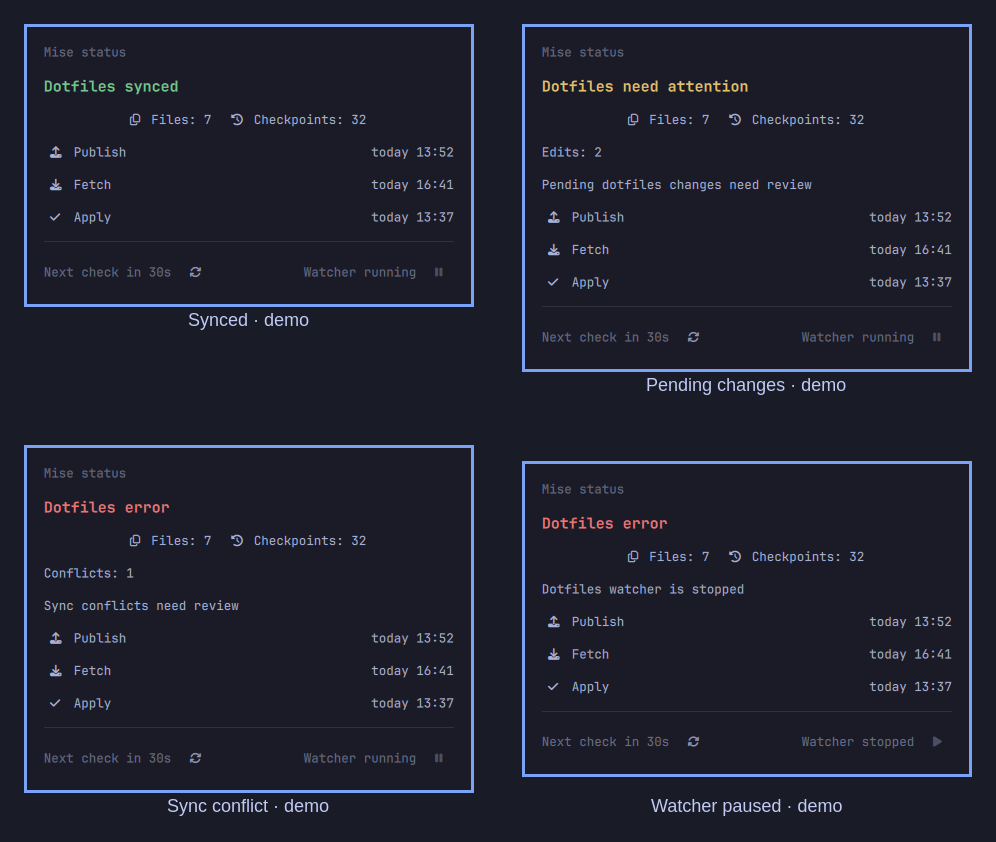
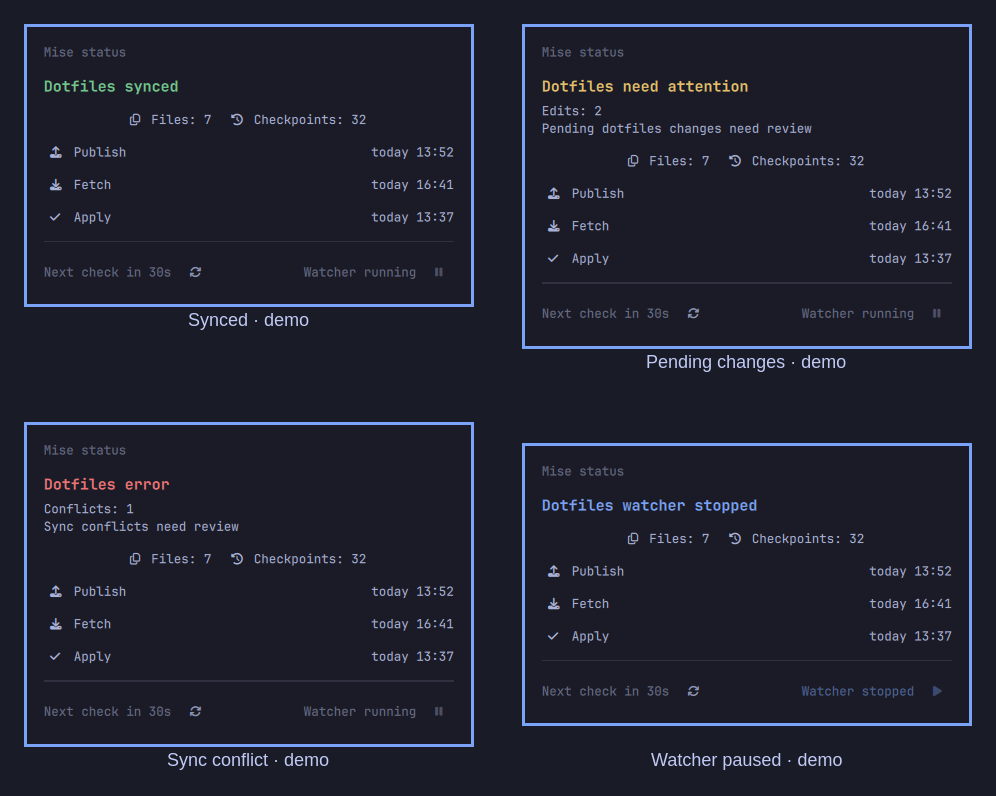
feat: show paused watcher in blue and group status reasons

diff --git a/ui/StatusContent.qml b/ui/StatusContent.qml
@@ -38,12 +38,12 @@ Column {
     font.family: root.fontFamily
     font.pixelSize: root.captionSize
   }
-  RowLayout {
+  Column {
     width: parent.width
-    spacing: 12 * root.unit
+    spacing: 5 * root.unit
     Text {
       objectName: "statusHeading"
-      Layout.fillWidth: true
+      width: parent.width
       text: root.status.summary
       textFormat: Text.PlainText
       elide: Text.ElideRight
@@ -51,6 +51,31 @@ Column {
       font.family: root.fontFamily
       font.pixelSize: root.bodySize
       font.bold: true
+    }
+    Text {
+      objectName: "statusReason"
+      width: parent.width
+      text: (root.status.details || []).filter(function(line) {
+        return line.indexOf("Watcher: ") !== 0
+          && !/^Files: (\d+|unknown) \| Checkpoints: (\d+|unknown)$/.test(line)
+          && !/^Last (publish|fetch|apply): /.test(line)
+      }).join("\n")
+      visible: text !== ""
+      textFormat: Text.PlainText
+      wrapMode: Text.Wrap
+      color: root.foreground
+      font.family: root.fontFamily
+      font.pixelSize: root.captionSize
+    }
+    Text {
+      visible: root.watcherError !== ""
+      width: parent.width
+      text: root.watcherError
+      textFormat: Text.PlainText
+      wrapMode: Text.Wrap
+      color: Presentation.colorFor("red")
+      font.family: root.fontFamily
+      font.pixelSize: root.captionSize
     }
   }
     Row {
@@ -96,7 +121,7 @@ Column {
       objectName: "watcherLabel"
       anchors.verticalCenter: parent.verticalCenter
       text: "Watcher " + root.watcherState
-      color: root.foreground
+      color: root.watcherState === "stopped" ? Presentation.colorFor("blue") : root.foreground
       opacity: 0.55
       font.family: root.fontFamily
       font.pixelSize: root.captionSize
@@ -123,7 +148,7 @@ Column {
         text: watcherButton.text
         horizontalAlignment: Text.AlignHCenter
         verticalAlignment: Text.AlignVCenter
-        color: root.foreground
+        color: root.watcherState === "stopped" ? Presentation.colorFor("blue") : root.foreground
         opacity: watcherButton.enabled ? 0.8 : 0.35
         font.family: root.fontFamily
         font.pixelSize: root.captionSize
@@ -131,18 +156,8 @@ Column {
       onClicked: root.watcherToggleRequested()
     }
   }
-  Text {
-    visible: root.watcherError !== ""
-    width: parent.width
-    text: root.watcherError
-    textFormat: Text.PlainText
-    wrapMode: Text.Wrap
-    color: Presentation.colorFor("red")
-    font.family: root.fontFamily
-    font.pixelSize: root.captionSize
-  }
   Repeater {
-    model: (root.status.details || []).filter(function(line) { return line.indexOf("Watcher: ") !== 0 && !/^Files: (\d+|unknown) \| Checkpoints: (\d+|unknown)$/.test(line) })
+    model: (root.status.details || []).filter(function(line) { return /^Last (publish|fetch|apply): /.test(line) })
     delegate: Item {
       id: detail
       required property string modelData

diff --git a/tests/tst_content.qml b/tests/tst_content.qml
@@ -119,4 +119,22 @@ TestCase {
     content.status = {summary: "Dotfiles error", level: "red", details: []}
     compare(findChild(content, "statusHeading").color, "#ee7373")
   }
+  function test_reasons_before_counts() {
+    var original = content.status
+    content.status = {summary: "Dotfiles error", level: "red", details: ["Files: 7 | Checkpoints: 28", "Last publish: today 13:52", "Sync conflicts need review"]}
+    waitForRendering(content)
+    var reason = findChild(content, "statusReason")
+    verify(reason !== null)
+    var counts = findChild(content, "filesIcon").parent
+    verify(reason.mapToItem(content, 0, reason.height).y < counts.y)
+    verify(reason.mapToItem(content, 0, 0).y > findChild(content, "statusHeading").mapToItem(content, 0, 0).y)
+    content.status = original
+  }
+  function test_stopped_color() {
+    content.watcherState = "stopped"
+    compare(findChild(content, "watcherLabel").color, "#7aa2f7")
+    compare(findChild(content, "watcherLabel").opacity, 0.55)
+    content.status = {summary: "Dotfiles watcher stopped", level: "blue", details: []}
+    compare(findChild(content, "statusHeading").color, "#7aa2f7")
+  }
 }

diff --git a/tests/tst_presentation.qml b/tests/tst_presentation.qml
@@ -30,12 +30,14 @@ TestCase {
     compare(Presentation.decode('{"level":"green","summary":"Synced","details":[]}').level, "green")
     compare(Presentation.decode('broken').level, "yellow")
     compare(Presentation.decode('{"level":"green"}').level, "yellow")
-    compare(Presentation.decode('{"level":"blue","summary":"Oops","details":[]}').level, "yellow")
+    compare(Presentation.decode('{"level":"blue","summary":"Stopped","details":[]}').level, "blue")
+    compare(Presentation.decode('{"level":"invalid","summary":"Oops","details":[]}').level, "yellow")
   }
   function test_colors() {
     compare(Presentation.colorFor("green"), "#72c78b")
     compare(Presentation.colorFor("yellow"), "#e5bf69")
     compare(Presentation.colorFor("red"), "#ee7373")
+    compare(Presentation.colorFor("blue"), "#7aa2f7")
     compare(Presentation.colorFor("unknown"), "#e5bf69")
   }
 }

diff --git a/Presentation.js b/Presentation.js
@@ -34,13 +34,14 @@ function watcher(text) {
 function decode(text) {
   try {
     var data = JSON.parse(text)
-    if (["green", "yellow", "red"].indexOf(data.level) !== -1
+    if (["green", "yellow", "red", "blue"].indexOf(data.level) !== -1
         && typeof data.summary === "string" && Array.isArray(data.details)) return data
   } catch (e) {}
   return {level: "yellow", summary: "Status unavailable", details: ["Could not read mise status. Try Refresh."]}
 }
 
 function colorFor(level) {
+  if (level === "blue") return "#7aa2f7"
   if (level === "green") return "#72c78b"
   if (level === "red") return "#ee7373"
   return "#e5bf69"

diff --git a/ui/StatusIcon.qml b/ui/StatusIcon.qml
@@ -2,7 +2,7 @@ import QtQuick
 
 Image {
   property string level: "yellow"
-  source: Qt.resolvedUrl("../assets/mise-" + (["green", "yellow", "red"].indexOf(level) >= 0 ? level : "yellow") + ".svg")
+  source: Qt.resolvedUrl("../assets/mise-" + (["green", "yellow", "red", "blue"].indexOf(level) >= 0 ? level : "yellow") + ".svg")
   fillMode: Image.PreserveAspectFit
   sourceSize.width: Math.ceil(width * Screen.devicePixelRatio)
   sourceSize.height: Math.ceil(height * Screen.devicePixelRatio)

diff --git a/tests/tst_icon.qml b/tests/tst_icon.qml
@@ -13,6 +13,7 @@ TestCase {
       {tag: "green", level: "green", asset: "green"},
       {tag: "yellow", level: "yellow", asset: "yellow"},
       {tag: "red", level: "red", asset: "red"},
+      {tag: "blue", level: "blue", asset: "blue"},
       {tag: "unknown", level: "unknown", asset: "yellow"}
     ]
   }

diff --git a/status.py b/status.py
@@ -109,9 +109,7 @@ def evaluate(payload, now=None):
         errors.append('Sync conflicts need review')
     state = history.get('watcher')
     details.append('Watcher: ' + (state if state in ('running', 'stopped') else 'unknown'))
-    if state == 'stopped':
-        errors.append('Dotfiles watcher is stopped')
-    elif state != 'running':
+    if state not in ('running', 'stopped'):
         warnings.append('Watcher status is unconfirmed')
     if history.get('enabled') is not True:
         warnings.append('Dotfiles history is not confirmed enabled')
@@ -155,9 +153,9 @@ def evaluate(payload, now=None):
         details.append('; '.join(dict.fromkeys(warnings)))
     if errors or warnings:
         details.append('Review mise dotfiles status locally; this monitor makes no changes')
-    level = 'red' if errors else 'yellow' if warnings else 'green'
+    level = 'red' if errors else 'blue' if state == 'stopped' else 'yellow' if warnings else 'green'
     summary = {'red': 'Dotfiles error', 'yellow': 'Dotfiles need attention',
-               'green': 'Dotfiles synced'}[level]
+               'green': 'Dotfiles synced', 'blue': 'Dotfiles watcher stopped'}[level]
     return {'level': level, 'summary': summary, 'details': details,
             'checked_at': now.isoformat(), 'checked_label': format_timestamp(now, now),
             'timestamps': timestamps}

diff --git a/tests/test_status.py b/tests/test_status.py
@@ -113,7 +113,6 @@ class StatusTests(unittest.TestCase):
             ('sync', 'failing_since', STAMP),
             ('sync', 'consecutive_failures', 1),
             ('history', 'unavailable', 'SECRET'),
-            ('history', 'watcher', 'stopped'),
         ):
             with self.subTest(field=field):
                 payload = healthy()
@@ -123,6 +122,16 @@ class StatusTests(unittest.TestCase):
                 result = self.evaluate(payload)
                 self.assertEqual(result['level'], 'red')
                 self.assertNotIn('SECRET', str(result))
+
+    def test_stopped_watcher_is_blue_unless_sync_error(self):
+        payload = healthy()
+        payload['history']['watcher'] = 'stopped'
+        payload['edits'] = ['private/path']
+        result = self.evaluate(payload)
+        self.assertEqual(result['level'], 'blue')
+        self.assertEqual(result['summary'], 'Dotfiles watcher stopped')
+        payload['history']['sync']['conflicts'] = ['private/path']
+        self.assertEqual(self.evaluate(payload)['level'], 'red')
 
     def test_unknown_or_malformed_status_never_green(self):
         cases = [None, [], {}, {'history': None}]

diff --git a/README.md b/README.md
@@ -1,6 +1,6 @@
 # oma-mise — Mise status for Omarchy
 
-A small mise logo tinted red/yellow/green in the Omarchy 4 bar. Click it for mise's
+A small mise logo tinted red/yellow/green/blue in the Omarchy 4 bar. Click it for mise's
 local dotfile synchronization status. Inspired by
 [jankeesvw/omarchy-time-machine](https://github.com/jankeesvw/omarchy-time-machine),
 using Omarchy's native panel components rather than a separate tray daemon.
@@ -12,12 +12,16 @@ using Omarchy's native panel components rather than a separate tray daemon.
 - **Yellow:** changes are pending, synchronization is degraded or unconfirmed,
   setup is incomplete, or status cannot be read. A fetch older than 15 minutes
   is unconfirmed, not evidence that the watcher has stopped.
-- **Red:** conflicts, reported sync failures, unavailable history, or a stopped
-  watcher require attention. Failures take precedence over pending changes.
+- **Red:** conflicts, reported sync failures, or unavailable history require
+  attention. Actual errors take precedence even when the watcher is stopped.
+- **Blue:** the watcher is stopped/paused, with no reported sync error. The summary
+  reads `Dotfiles watcher stopped`; the watcher footer and resume icon are muted
+  blue. Any pending-change or stale-fetch reasons remain visible below the summary.
 
 The popup has a muted title, a status-colored summary, watcher start/stop controls,
 file/checkpoint icons on their own centered row, and publish/fetch/apply rows
 with right-aligned timestamps.
+Error/warning reasons appear immediately beneath the summary, above the counts.
 Below a divider, a live `Next check in 30s` countdown leads to the next status poll;
 longer durations use hours/minutes/seconds. The next poll is scheduled 30 seconds
 after a check completes. Opening the popup or clicking its refresh icon checks
@@ -65,8 +69,10 @@ Actual native popup screenshots with staged demo data—not real sync incidents.
 
 ![Popup showing the watcher stopped and its resume icon](screenshots/paused-watcher.png)
 
-Pausing stops the watcher service; the current health policy marks a stopped
-watcher red. This screenshot is a demo, not a change to the live watcher.
+Pausing stops the watcher service and shows a blue state unless a real sync error
+is reported. This screenshot is a demo, not a change to the live watcher.
+
+Blue bar icon: ![Paused mise bar icon](screenshots/paused-tray-icon.png)
 
 See [popup screenshots](screenshots/README.md) for staged green/yellow/red examples
 and [the publishing checklist](docs/PUBLISHING.md) for private testing, public

diff --git a/screenshots/README.md b/screenshots/README.md
@@ -8,7 +8,8 @@ They are not evidence of real pending edits or conflicts on the author's machine
 | [green-synced.png](green-synced.png) | Green: dotfiles synced |
 | [yellow-pending.png](yellow-pending.png) | Yellow: two pending edits |
 | [red-conflict.png](red-conflict.png) | Red: one sync conflict |
-| [paused-watcher.png](paused-watcher.png) | Watcher paused/stopped, with resume icon; red under current health policy |
+| [paused-watcher.png](paused-watcher.png) | Blue watcher paused/stopped, with muted-blue footer and resume icon |
+| [paused-tray-icon.png](paused-tray-icon.png) | Native blue mise bar icon crop |
 | [states-overview.png](states-overview.png) | Four-state social image, labelled as demo states |
 
 ![Four demo states](states-overview.png)
@@ -16,6 +17,8 @@ They are not evidence of real pending edits or conflicts on the author's machine
 Captured on 8 September 2026, using the user's existing popup width and desktop
 theme. Files and checkpoints have their own centered row; the yellow summary
 now fits without elision. No UI text was composited over the individual screenshots.
+Reasons sit directly below the summary, before the counts. The stopped state is
+blue; real sync errors would still take priority as red.
 The overview only adds spacing and demo labels around the original crops.
 
 ## Capture safety

diff --git a/assets/README.md b/assets/README.md
@@ -1,4 +1,4 @@
 Mise logo sourced from https://mise.jdx.dev/logo-dark.svg.
-These three variants preserve the original SVG geometry; only the white fill
-is replaced with the plugin’s green, yellow, and red status colors.
+These four variants preserve the original SVG geometry; only the white fill
+is replaced with the plugin’s green, yellow, red, and blue status colors.
 The logo belongs to the mise project; no affiliation or endorsement is implied.
